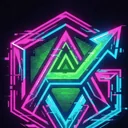
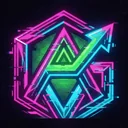
Centre the GAV emblem crop
The emblem was cut 15 px low from favicon.png, with its bottom tip clipped.
scripts/design/emblem.py crops around the measured artwork bounds with an
even margin taken from the source's own background; favicon, nav emblem
and social previews rebuilt from it.

diff --git a/sw.js b/sw.js
@@ -1,5 +1,5 @@
 /* GameAccountValue Service Worker — offline + PWA install */
-const CACHE = 'gav-landing-2026-26';
+const CACHE = 'gav-landing-2026-27';
 const PRECACHE = [
   './', './index.html', './404.html', './manifest.json',
   './favicon.png', './favicon.ico', './favicon-192.png', './apple-touch-icon.png',

diff --git a/scripts/design/emblem.py b/scripts/design/emblem.py
@@ -1,0 +1,32 @@
+"""The GAV emblem cut out of favicon.png (512x512: emblem + "GAV" wordmark).
+Measured bounds of the emblem artwork: x 119-392, y 104-373; the wordmark
+starts at y 376. Crop is centred on those bounds, rows from the wordmark are
+blanked, then an even margin is added, so the emblem is optically centred.
+python scripts/design/emblem.py  -> rebuilds assets/emblem.webp, favicon.ico, favicon-192.png"""
+import os
+from PIL import Image
+
+ROOT = os.path.dirname(os.path.dirname(os.path.dirname(os.path.abspath(__file__))))
+CX, CY, ART = 256, 240.5, 278   # centre and size of the measured artwork
+TEXT_Y = 375                     # first source row of the wordmark
+MARGIN = 0.07                    # even margin on every side
+
+
+def emblem(size):
+    src = Image.open(os.path.join(ROOT, 'favicon.png')).convert('RGB')
+    side = round(ART * (1 + 2 * MARGIN))
+    x0, y0 = round(CX - side / 2), round(CY - side / 2)
+    c = src.crop((x0, y0, x0 + side, y0 + side))
+    # replace the wordmark rows with background rows from the top of the crop,
+    # so the margin keeps the source's own dark texture (no visible seam)
+    cut = TEXT_Y - y0
+    filler = c.crop((0, 0, side, side - cut)).transpose(Image.FLIP_TOP_BOTTOM)
+    c.paste(filler, (0, cut))
+    return c.resize((size, size), Image.LANCZOS)
+
+
+if __name__ == '__main__':
+    emblem(128).save(os.path.join(ROOT, 'assets', 'emblem.webp'), quality=85, method=6)
+    emblem(192).quantize(256).save(os.path.join(ROOT, 'favicon-192.png'), optimize=True)
+    emblem(192).save(os.path.join(ROOT, 'favicon.ico'), sizes=[(16, 16), (32, 32), (48, 48)])
+    print('emblem assets rebuilt')

diff --git a/scripts/design/make_og.py b/scripts/design/make_og.py
@@ -3,6 +3,7 @@ Text is only the game name, the price range and the domain, so one image
 serves all languages. Usage: python scripts/design/make_og.py [game ...]
 Writes og/<game>.jpg via headless Chrome (fresh profile each run)."""
 import os, sys, subprocess, tempfile, uuid
+sys.path.insert(0, os.path.dirname(os.path.abspath(__file__)))
 from PIL import Image
 
 HERE = os.path.dirname(os.path.abspath(__file__))
@@ -62,7 +63,8 @@ def render(game, out_dir):
     title, a, b, price, top = GAMES[game]
     tmp = tempfile.mkdtemp()
     emblem = os.path.join(tmp, 'emblem.png')
-    Image.open(os.path.join(ROOT, 'favicon.png')).convert('RGBA').crop((110, 82, 394, 366)).save(emblem)
+    import emblem as em_mod
+    em_mod.emblem(192).save(emblem)
     city = open(os.path.join(HERE, 'city.svg'), encoding='utf-8').read()
     import importlib.util as iu
     sp = iu.spec_from_file_location('br', os.path.join(HERE, 'brand_rollout.py')); br = iu.module_from_spec(sp); sp.loader.exec_module(br)
